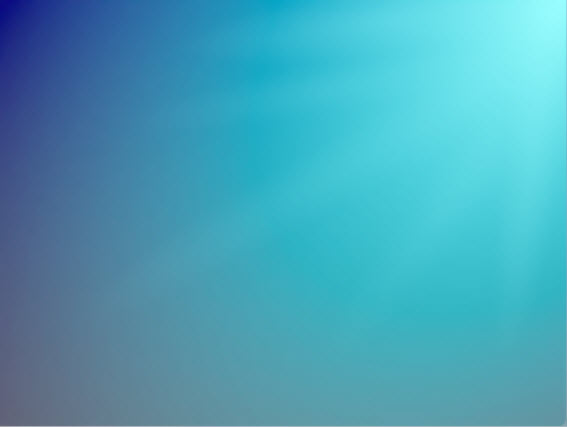
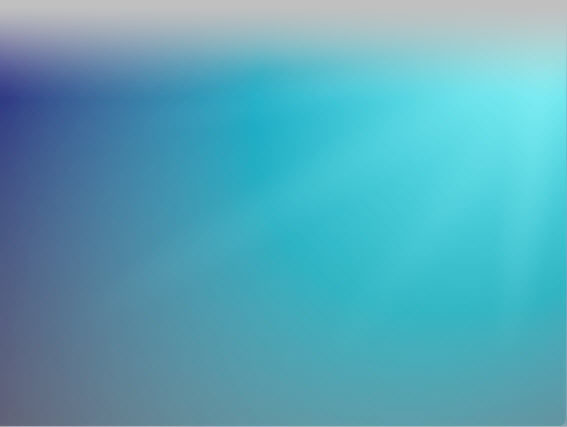
update images

Changed region(s): [[0.0, 0.0, 1.0, 0.2131]]

diff --git a/nest-graph-builder/src/main/java/org/esa/nest/dat/graphbuilder/GraphPanel.java b/nest-graph-builder/src/main/java/org/esa/nest/dat/graphbuilder/GraphPanel.java
@@ -43,6 +43,9 @@ class GraphPanel extends JPanel implements ActionListener, PopupMenuListener, Mo
     private final ConnectMenuListener connectListener = new ConnectMenuListener(this);
     private final RemoveSourceMenuListener removeSourceListener = new RemoveSourceMenuListener(this);
 
+    private static final ImageIcon opIcon = ResourceUtils.LoadIcon("org/esa/nest/icons/operator.png");
+    private static final ImageIcon folderIcon = ResourceUtils.LoadIcon("org/esa/nest/icons/folder.png");
+
     private static final Font font = new Font("Ariel", Font.BOLD, 10);
     private static final Color opColor = new Color(200, 200, 255, 128);
     private static final Color selColor = new Color(200, 255, 200, 150);
@@ -72,7 +75,6 @@ class GraphPanel extends JPanel implements ActionListener, PopupMenuListener, Mo
      * Creates a menu containing the list of operators to the addMenu
      */
     private void CreateAddOpMenu() {
-        final ImageIcon opIcon = ResourceUtils.LoadIcon("org/esa/nest/icons/cog_add.png");
         addMenu = new JMenu("Add");
 
         // get operator list from graph executor
@@ -138,6 +140,7 @@ class GraphPanel extends JPanel implements ActionListener, PopupMenuListener, Mo
         }
         if (!menuExists) {
             final JMenu newMenu = new JMenu(folderName);
+            newMenu.setIcon(folderIcon);
             subMenuList.add(newMenu);
             currentMenu.add(newMenu);
             currentMenu = newMenu;

diff --git a/nest-dat/src/main/java/org/esa/nest/dat/S1TBXApp.java b/nest-dat/src/main/java/org/esa/nest/dat/S1TBXApp.java
@@ -51,8 +51,7 @@ public final class S1TBXApp extends DatApp {
     protected TabbedDesktopPane createDesktop() {
         final JDesktopPane desktopPane = new JDesktopPane()
         {
-            //final URL imgPath = S1TBXApp.class.getClassLoader().getResource("images/desktop-pane.jpg");
-            final URL imgPath = S1TBXApp.class.getClassLoader().getResource("images/azure2.jpg");
+            final URL imgPath = S1TBXApp.class.getClassLoader().getResource("images/desktop-pane.jpg");
             private final Image image = Toolkit.getDefaultToolkit().getImage(imgPath);
 
             protected void paintComponent(Graphics g)
@@ -138,7 +137,7 @@ public final class S1TBXApp extends DatApp {
     @Override
     protected void initClientUI(ProgressMonitor pm) {
         super.initClientUI(pm);
-        getMainFrame().setIconImage(ResourceUtils.esaIcon.getImage());
+        getMainFrame().setIconImage(ResourceUtils.s1Icon.getImage());
     }
 
     protected void loadJideExtension() {

diff --git a/nest-core/src/main/java/org/esa/nest/util/ResourceUtils.java b/nest-core/src/main/java/org/esa/nest/util/ResourceUtils.java
@@ -49,6 +49,7 @@ public final class ResourceUtils {
     public static ImageIcon arrayIcon = LoadIcon("array/rstb/icons/array_logo.png");
     public static ImageIcon esaIcon = LoadIcon("org/esa/nest/icons/esa.png");
     public static ImageIcon esaPlanetIcon = LoadIcon("org/esa/nest/icons/esa-planet.png");
+    public static ImageIcon s1Icon = LoadIcon("org/esa/nest/icons/Sentinel1.png");
     public static ImageIcon geoAusIcon = LoadIcon("org/esa/nest/icons/geo_aus.png");
 
     public static ImageIcon LoadIcon(final String path) {

diff --git a/nest-dat/src/main/java/org/esa/nest/dat/DatAboutBox.java b/nest-dat/src/main/java/org/esa/nest/dat/DatAboutBox.java
@@ -59,7 +59,7 @@ class DatAboutBox extends ModalDialog {
         });
 
         final File homeFolder = ResourceUtils.findHomeFolder();
-        final File imgFile = new File(homeFolder, "res"+File.separator+"nest_splash.png");
+        final File imgFile = new File(homeFolder, "res"+File.separator+"s1tbx_logo.png");
         final Icon icon = new ImageIcon(imgFile.getAbsolutePath());
 
         final JLabel imageLabel = new JLabel(icon);
